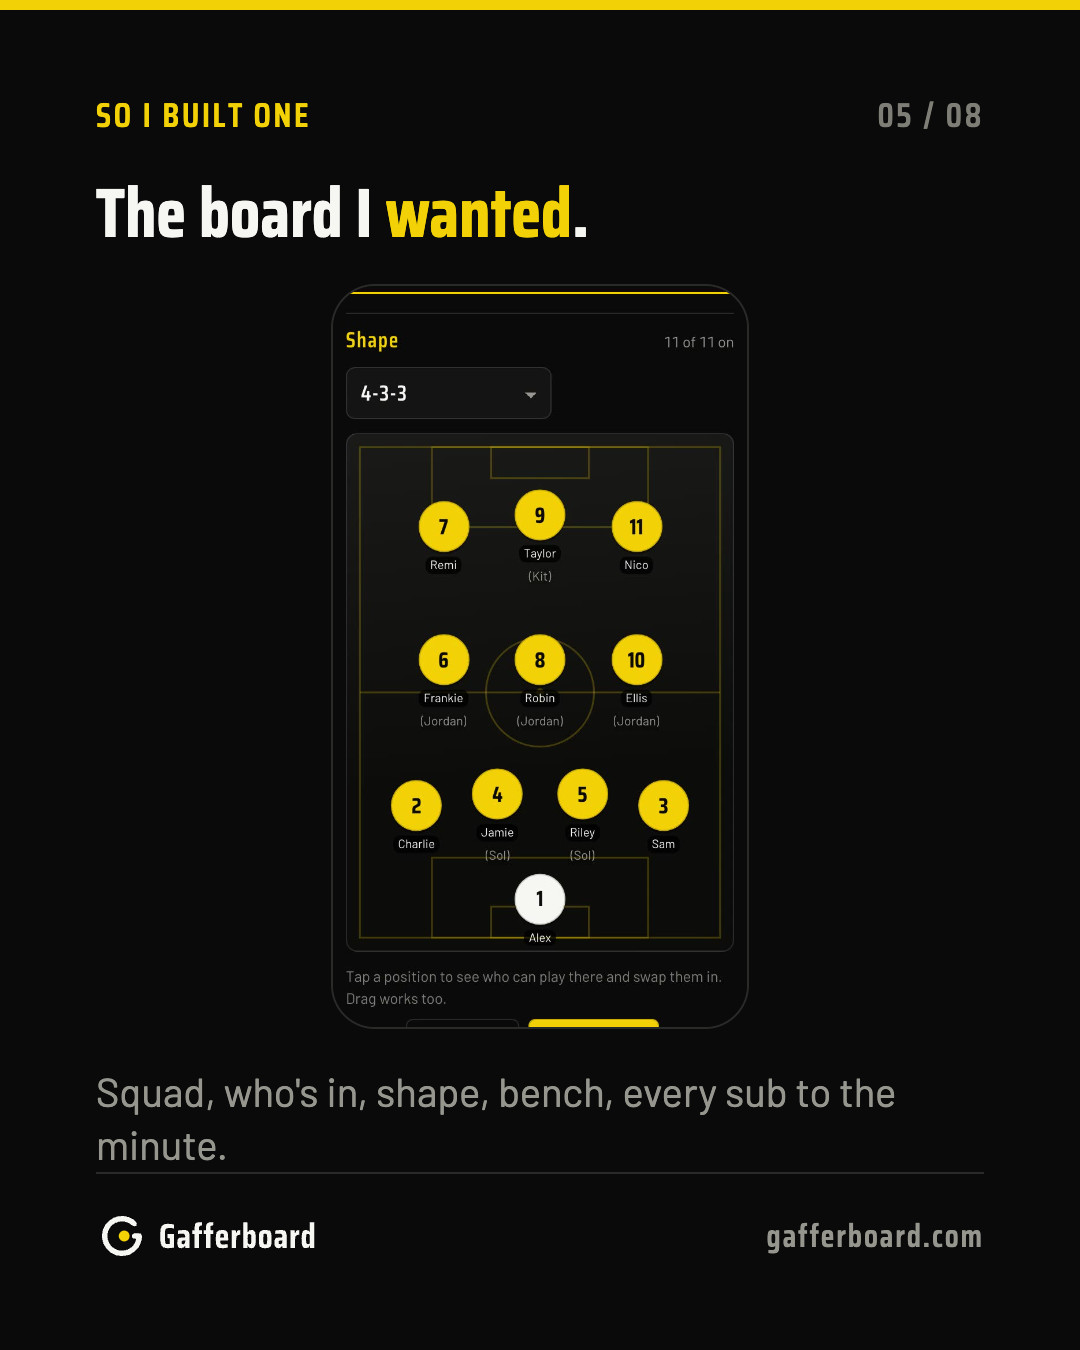
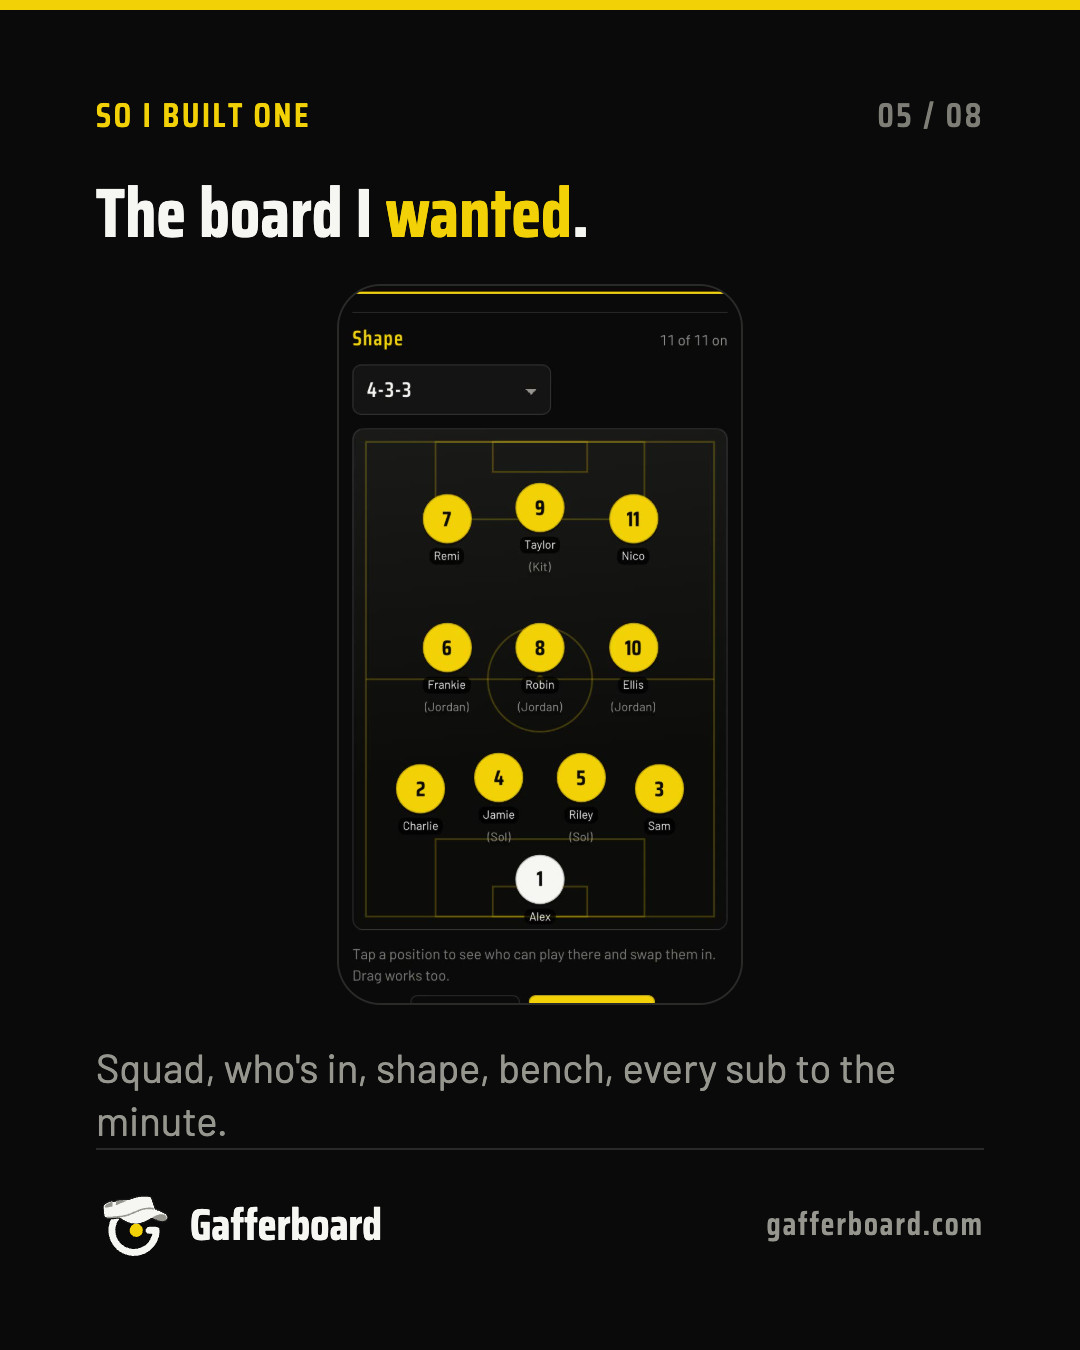
Instagram slides use the visor mark, as the site header does

Changed region(s): [[0.0917, 0.2178, 0.825, 0.9333], [0.7028, 0.9022, 0.9167, 0.9333]]

diff --git a/docs/social/log.md b/docs/social/log.md
@@ -6,6 +6,9 @@ What went out, when, and how it did. Newest first. Claude adds a line after ever
 
 | Date | Slug | Type | Permalink | Reach | Saves | Shares | Notes |
 | --- | --- | --- | --- | --- | --- | --- | --- |
+| 2026-10-01 | launch-02-stories-day-1 | 5 stories (4 images, teaser video 3rd) | https://www.instagram.com/stories/gafferboard/3998235598242321119 | | | | Launch. Save to the How it works highlight. |
+| 2026-10-01 | launch-01-the-story | Carousel, 8 | https://www.instagram.com/p/Dd8lehxDsVc/ | | | | Launch, pin. Davide's voice. |
+| 2026-10-01 | launch-03-how-it-works | Carousel, 7 | https://www.instagram.com/p/Dd8lXCzjkcs/ | | | | Launch, pin. |
 
 ## Weekly reviews
 
